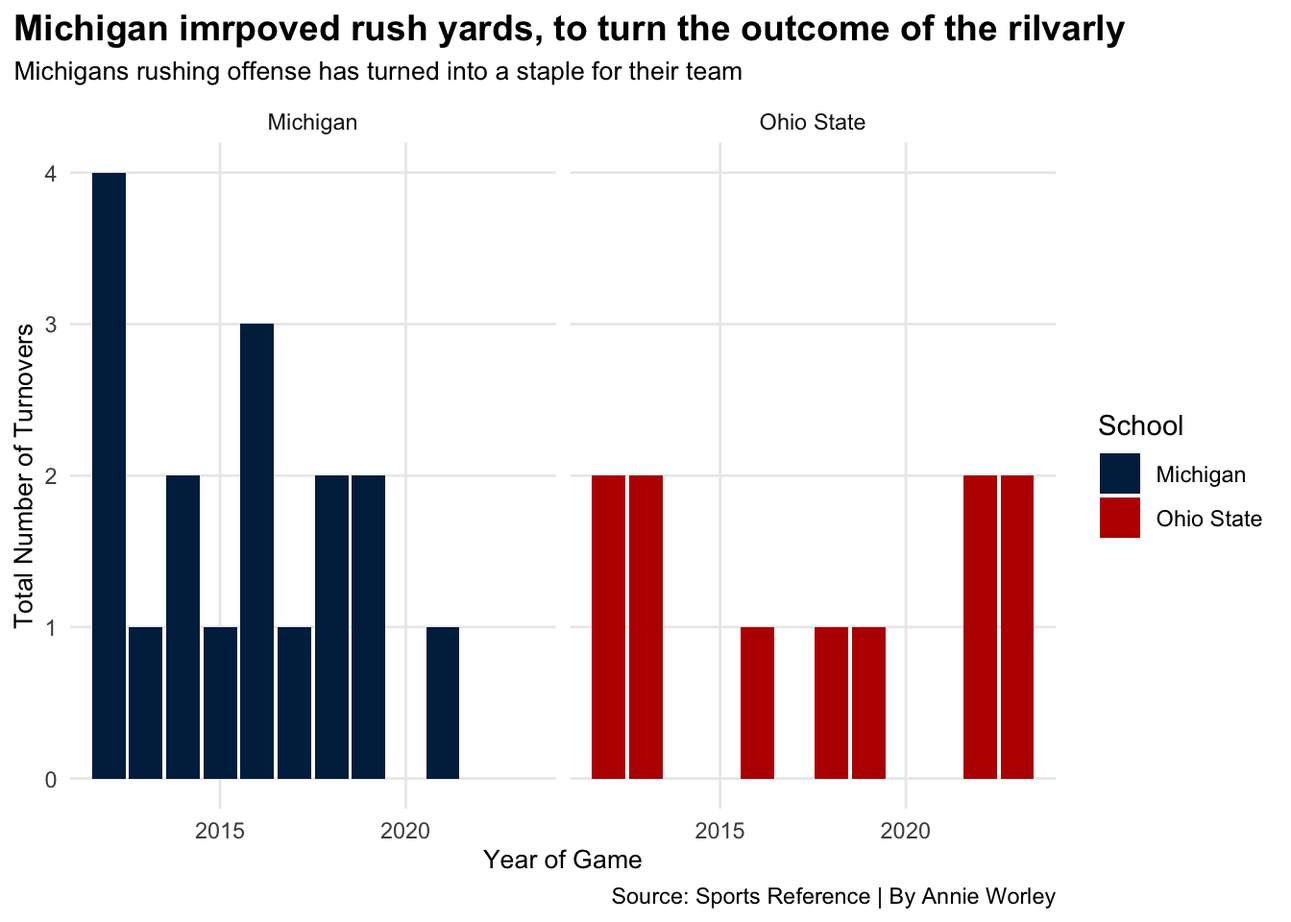
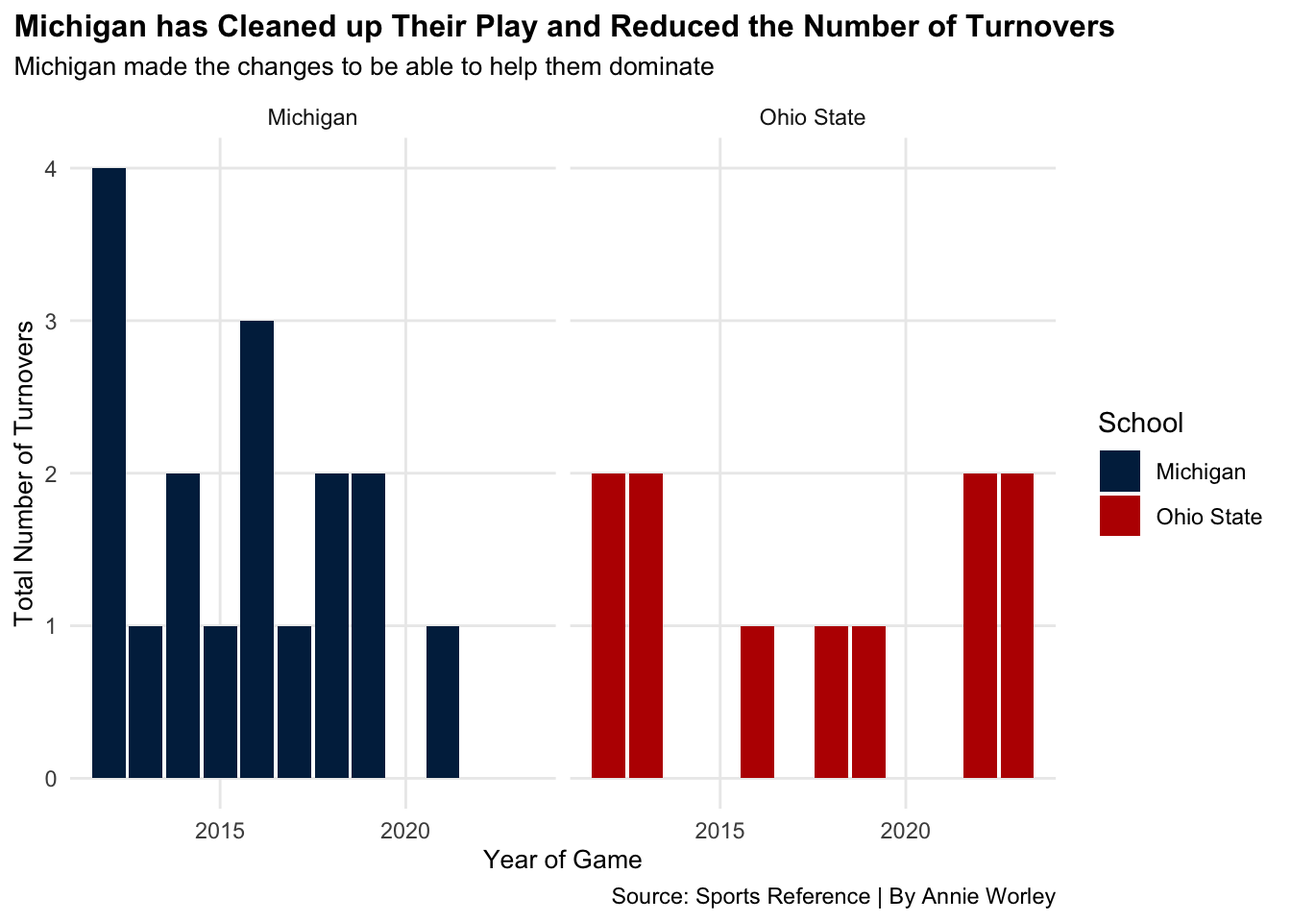
edits

diff --git a/posts/college-football/index.html b/posts/college-football/index.html
@@ -217,7 +217,8 @@ pre > code.sourceCode > span > a:first-child::before { text-decoration: underlin
 <span id="cb3-3"><a href="#cb3-3" aria-hidden="true" tabindex="-1"></a><span class="fu">library</span>(ggtext)</span></code><button title="Copy to Clipboard" class="code-copy-button"><i class="bi"></i></button></pre></div>
 </details>
 </div>
-<p>How has Michigan’s football team beaten Ohio State the last three years? In previous years from 2012 - 2019 Michigan lost to Ohio State eight consecutive years. In 2019 the two teams didn’t play each other due to Covid-19 which was the first time they didn’t face each other since 1918.</p>
+<p>How has Michigan’s football team beaten Ohio State the last three years? In previous years from 2012 - 2019, Michigan lost to Ohio State eight consecutive years.</p>
+<p>In 2019 the two teams didn’t play each other due to Covid-19 which was the first time they didn’t face each other since 1918.</p>
 <div class="cell">
 <details class="code-fold">
 <summary>Code</summary>
@@ -242,15 +243,19 @@ Specify the column types or set `show_col_types = FALSE` to quiet this message.
 • `Avg` -&gt; `Avg...14`
 • `TD` -&gt; `TD...15`</code></pre>
 </div>
+<details class="code-fold">
+<summary>Code</summary>
+<div class="sourceCode cell-code" id="cb6"><pre class="sourceCode r code-with-copy"><code class="sourceCode r"><span id="cb6-1"><a href="#cb6-1" aria-hidden="true" tabindex="-1"></a>show_col_types <span class="ot">=</span> <span class="cn">FALSE</span></span></code><button title="Copy to Clipboard" class="code-copy-button"><i class="bi"></i></button></pre></div>
+</details>
 </div>
 <div class="cell">
 <details class="code-fold">
 <summary>Code</summary>
-<div class="sourceCode cell-code" id="cb6"><pre class="sourceCode r code-with-copy"><code class="sourceCode r"><span id="cb6-1"><a href="#cb6-1" aria-hidden="true" tabindex="-1"></a>teamrushing <span class="ot">&lt;-</span> rushing <span class="sc">|&gt;</span> </span>
-<span id="cb6-2"><a href="#cb6-2" aria-hidden="true" tabindex="-1"></a>  <span class="fu">group_by</span>(Year, School) <span class="sc">|&gt;</span> </span>
-<span id="cb6-3"><a href="#cb6-3" aria-hidden="true" tabindex="-1"></a><span class="fu">summarise</span>(</span>
-<span id="cb6-4"><a href="#cb6-4" aria-hidden="true" tabindex="-1"></a>    <span class="at">TotalYards =</span> <span class="fu">sum</span>(Yds...<span class="dv">5</span>, <span class="at">na.rm =</span> <span class="cn">TRUE</span>)</span>
-<span id="cb6-5"><a href="#cb6-5" aria-hidden="true" tabindex="-1"></a>    )</span></code><button title="Copy to Clipboard" class="code-copy-button"><i class="bi"></i></button></pre></div>
+<div class="sourceCode cell-code" id="cb7"><pre class="sourceCode r code-with-copy"><code class="sourceCode r"><span id="cb7-1"><a href="#cb7-1" aria-hidden="true" tabindex="-1"></a>teamrushing <span class="ot">&lt;-</span> rushing <span class="sc">|&gt;</span> </span>
+<span id="cb7-2"><a href="#cb7-2" aria-hidden="true" tabindex="-1"></a>  <span class="fu">group_by</span>(Year, School) <span class="sc">|&gt;</span> </span>
+<span id="cb7-3"><a href="#cb7-3" aria-hidden="true" tabindex="-1"></a><span class="fu">summarise</span>(</span>
+<span id="cb7-4"><a href="#cb7-4" aria-hidden="true" tabindex="-1"></a>    <span class="at">TotalYards =</span> <span class="fu">sum</span>(Yds...<span class="dv">5</span>, <span class="at">na.rm =</span> <span class="cn">TRUE</span>)</span>
+<span id="cb7-5"><a href="#cb7-5" aria-hidden="true" tabindex="-1"></a>    )</span></code><button title="Copy to Clipboard" class="code-copy-button"><i class="bi"></i></button></pre></div>
 </details>
 <div class="cell-output cell-output-stderr">
 <pre><code>`summarise()` has grouped output by 'Year'. You can override using the
@@ -262,33 +267,33 @@ Specify the column types or set `show_col_types = FALSE` to quiet this message.
 <div class="cell">
 <details class="code-fold">
 <summary>Code</summary>
-<div class="sourceCode cell-code" id="cb8"><pre class="sourceCode r code-with-copy"><code class="sourceCode r"><span id="cb8-1"><a href="#cb8-1" aria-hidden="true" tabindex="-1"></a>uofm <span class="ot">&lt;-</span> teamrushing <span class="sc">|&gt;</span></span>
-<span id="cb8-2"><a href="#cb8-2" aria-hidden="true" tabindex="-1"></a>  <span class="fu">filter</span>(School <span class="sc">==</span> <span class="st">"Michigan"</span>)</span>
-<span id="cb8-3"><a href="#cb8-3" aria-hidden="true" tabindex="-1"></a>osu <span class="ot">&lt;-</span> teamrushing <span class="sc">|&gt;</span></span>
-<span id="cb8-4"><a href="#cb8-4" aria-hidden="true" tabindex="-1"></a>  <span class="fu">filter</span>(School <span class="sc">==</span> <span class="st">"Ohio State"</span>)</span></code><button title="Copy to Clipboard" class="code-copy-button"><i class="bi"></i></button></pre></div>
+<div class="sourceCode cell-code" id="cb9"><pre class="sourceCode r code-with-copy"><code class="sourceCode r"><span id="cb9-1"><a href="#cb9-1" aria-hidden="true" tabindex="-1"></a>uofm <span class="ot">&lt;-</span> teamrushing <span class="sc">|&gt;</span></span>
+<span id="cb9-2"><a href="#cb9-2" aria-hidden="true" tabindex="-1"></a>  <span class="fu">filter</span>(School <span class="sc">==</span> <span class="st">"Michigan"</span>)</span>
+<span id="cb9-3"><a href="#cb9-3" aria-hidden="true" tabindex="-1"></a>osu <span class="ot">&lt;-</span> teamrushing <span class="sc">|&gt;</span></span>
+<span id="cb9-4"><a href="#cb9-4" aria-hidden="true" tabindex="-1"></a>  <span class="fu">filter</span>(School <span class="sc">==</span> <span class="st">"Ohio State"</span>)</span></code><button title="Copy to Clipboard" class="code-copy-button"><i class="bi"></i></button></pre></div>
 </details>
 </div>
 <div class="cell">
 <details class="code-fold">
 <summary>Code</summary>
-<div class="sourceCode cell-code" id="cb9"><pre class="sourceCode r code-with-copy"><code class="sourceCode r"><span id="cb9-1"><a href="#cb9-1" aria-hidden="true" tabindex="-1"></a><span class="fu">ggplot</span>() <span class="sc">+</span> </span>
-<span id="cb9-2"><a href="#cb9-2" aria-hidden="true" tabindex="-1"></a>  <span class="fu">geom_line</span>(<span class="at">data=</span>uofm, <span class="fu">aes</span>(<span class="at">x=</span>Year, <span class="at">y=</span>TotalYards), <span class="at">color=</span><span class="st">"#00274C"</span>) <span class="sc">+</span> </span>
-<span id="cb9-3"><a href="#cb9-3" aria-hidden="true" tabindex="-1"></a>  <span class="fu">geom_line</span>(<span class="at">data=</span>osu, <span class="fu">aes</span>(<span class="at">x=</span>Year, <span class="at">y=</span>TotalYards), <span class="at">color=</span><span class="st">"#BB0000"</span>) <span class="sc">+</span></span>
-<span id="cb9-4"><a href="#cb9-4" aria-hidden="true" tabindex="-1"></a>  <span class="fu">scale_y_continuous</span>(<span class="at">limits =</span> <span class="fu">c</span>(<span class="dv">0</span>,<span class="dv">400</span>)) <span class="sc">+</span></span>
-<span id="cb9-5"><a href="#cb9-5" aria-hidden="true" tabindex="-1"></a>  <span class="fu">scale_x_continuous</span>(<span class="at">limits =</span> <span class="fu">c</span>(<span class="dv">2012</span>,<span class="dv">2023</span>)) <span class="sc">+</span></span>
-<span id="cb9-6"><a href="#cb9-6" aria-hidden="true" tabindex="-1"></a>  <span class="fu">theme_minimal</span>() <span class="sc">+</span></span>
-<span id="cb9-7"><a href="#cb9-7" aria-hidden="true" tabindex="-1"></a><span class="fu">labs</span>(</span>
-<span id="cb9-8"><a href="#cb9-8" aria-hidden="true" tabindex="-1"></a>    <span class="at">x=</span><span class="st">"Year of Games"</span>, </span>
-<span id="cb9-9"><a href="#cb9-9" aria-hidden="true" tabindex="-1"></a>    <span class="at">y=</span><span class="st">"Total Yards Per Game"</span>, </span>
-<span id="cb9-10"><a href="#cb9-10" aria-hidden="true" tabindex="-1"></a>    <span class="at">title=</span><span class="st">"Michigan improved rush yards, to turn the outcome of the rilvarly"</span>, </span>
-<span id="cb9-11"><a href="#cb9-11" aria-hidden="true" tabindex="-1"></a>    <span class="at">subtitle=</span><span class="st">"Michigans rushing offense has turned into a staple for their team"</span>, </span>
-<span id="cb9-12"><a href="#cb9-12" aria-hidden="true" tabindex="-1"></a>    <span class="at">caption=</span><span class="st">"Source: Sports Reference | By Annie Worley"</span>) <span class="sc">+</span></span>
-<span id="cb9-13"><a href="#cb9-13" aria-hidden="true" tabindex="-1"></a>  <span class="fu">theme</span>(</span>
-<span id="cb9-14"><a href="#cb9-14" aria-hidden="true" tabindex="-1"></a>    <span class="at">plot.title =</span> <span class="fu">element_text</span>(<span class="at">size =</span> <span class="dv">14</span>, <span class="at">face =</span> <span class="st">"bold"</span>), </span>
-<span id="cb9-15"><a href="#cb9-15" aria-hidden="true" tabindex="-1"></a>    <span class="at">axis.title =</span> <span class="fu">element_text</span>(<span class="at">size =</span> <span class="dv">10</span>), </span>
-<span id="cb9-16"><a href="#cb9-16" aria-hidden="true" tabindex="-1"></a>    <span class="at">plot.subtitle =</span> <span class="fu">element_text</span>(<span class="at">size=</span><span class="dv">10</span>), </span>
-<span id="cb9-17"><a href="#cb9-17" aria-hidden="true" tabindex="-1"></a>    <span class="at">panel.grid.minor =</span> <span class="fu">element_blank</span>(),</span>
-<span id="cb9-18"><a href="#cb9-18" aria-hidden="true" tabindex="-1"></a>    <span class="at">plot.title.position =</span> <span class="st">"plot"</span> )</span></code><button title="Copy to Clipboard" class="code-copy-button"><i class="bi"></i></button></pre></div>
+<div class="sourceCode cell-code" id="cb10"><pre class="sourceCode r code-with-copy"><code class="sourceCode r"><span id="cb10-1"><a href="#cb10-1" aria-hidden="true" tabindex="-1"></a><span class="fu">ggplot</span>() <span class="sc">+</span> </span>
+<span id="cb10-2"><a href="#cb10-2" aria-hidden="true" tabindex="-1"></a>  <span class="fu">geom_line</span>(<span class="at">data=</span>uofm, <span class="fu">aes</span>(<span class="at">x=</span>Year, <span class="at">y=</span>TotalYards), <span class="at">color=</span><span class="st">"#00274C"</span>) <span class="sc">+</span> </span>
+<span id="cb10-3"><a href="#cb10-3" aria-hidden="true" tabindex="-1"></a>  <span class="fu">geom_line</span>(<span class="at">data=</span>osu, <span class="fu">aes</span>(<span class="at">x=</span>Year, <span class="at">y=</span>TotalYards), <span class="at">color=</span><span class="st">"#BB0000"</span>) <span class="sc">+</span></span>
+<span id="cb10-4"><a href="#cb10-4" aria-hidden="true" tabindex="-1"></a>  <span class="fu">scale_y_continuous</span>(<span class="at">limits =</span> <span class="fu">c</span>(<span class="dv">0</span>,<span class="dv">400</span>)) <span class="sc">+</span></span>
+<span id="cb10-5"><a href="#cb10-5" aria-hidden="true" tabindex="-1"></a>  <span class="fu">scale_x_continuous</span>(<span class="at">limits =</span> <span class="fu">c</span>(<span class="dv">2012</span>,<span class="dv">2023</span>)) <span class="sc">+</span></span>
+<span id="cb10-6"><a href="#cb10-6" aria-hidden="true" tabindex="-1"></a>  <span class="fu">theme_minimal</span>() <span class="sc">+</span></span>
+<span id="cb10-7"><a href="#cb10-7" aria-hidden="true" tabindex="-1"></a><span class="fu">labs</span>(</span>
+<span id="cb10-8"><a href="#cb10-8" aria-hidden="true" tabindex="-1"></a>    <span class="at">x=</span><span class="st">"Year of Games"</span>, </span>
+<span id="cb10-9"><a href="#cb10-9" aria-hidden="true" tabindex="-1"></a>    <span class="at">y=</span><span class="st">"Total Yards Per Game"</span>, </span>
+<span id="cb10-10"><a href="#cb10-10" aria-hidden="true" tabindex="-1"></a>    <span class="at">title=</span><span class="st">"Michigan Improved Rush Rards, to Turn the Outcome of the Rilvarly"</span>, </span>
+<span id="cb10-11"><a href="#cb10-11" aria-hidden="true" tabindex="-1"></a>    <span class="at">subtitle=</span><span class="st">"Michigans rushing offense has turned into a staple for their team"</span>, </span>
+<span id="cb10-12"><a href="#cb10-12" aria-hidden="true" tabindex="-1"></a>    <span class="at">caption=</span><span class="st">"Source: Sports Reference | By Annie Worley"</span>) <span class="sc">+</span></span>
+<span id="cb10-13"><a href="#cb10-13" aria-hidden="true" tabindex="-1"></a>  <span class="fu">theme</span>(</span>
+<span id="cb10-14"><a href="#cb10-14" aria-hidden="true" tabindex="-1"></a>    <span class="at">plot.title =</span> <span class="fu">element_text</span>(<span class="at">size =</span> <span class="dv">14</span>, <span class="at">face =</span> <span class="st">"bold"</span>), </span>
+<span id="cb10-15"><a href="#cb10-15" aria-hidden="true" tabindex="-1"></a>    <span class="at">axis.title =</span> <span class="fu">element_text</span>(<span class="at">size =</span> <span class="dv">10</span>), </span>
+<span id="cb10-16"><a href="#cb10-16" aria-hidden="true" tabindex="-1"></a>    <span class="at">plot.subtitle =</span> <span class="fu">element_text</span>(<span class="at">size=</span><span class="dv">10</span>), </span>
+<span id="cb10-17"><a href="#cb10-17" aria-hidden="true" tabindex="-1"></a>    <span class="at">panel.grid.minor =</span> <span class="fu">element_blank</span>(),</span>
+<span id="cb10-18"><a href="#cb10-18" aria-hidden="true" tabindex="-1"></a>    <span class="at">plot.title.position =</span> <span class="st">"plot"</span> )</span></code><button title="Copy to Clipboard" class="code-copy-button"><i class="bi"></i></button></pre></div>
 </details>
 <div class="cell-output-display">
 <div>
@@ -301,8 +306,8 @@ Specify the column types or set `show_col_types = FALSE` to quiet this message.
 <div class="cell">
 <details class="code-fold">
 <summary>Code</summary>
-<div class="sourceCode cell-code" id="cb10"><pre class="sourceCode r code-with-copy"><code class="sourceCode r"><span id="cb10-1"><a href="#cb10-1" aria-hidden="true" tabindex="-1"></a><span class="co">#1 message: FALSE </span></span>
-<span id="cb10-2"><a href="#cb10-2" aria-hidden="true" tabindex="-1"></a><span class="fu">ggsave</span>(<span class="st">"rivalryimage.jpeg"</span>)  </span></code><button title="Copy to Clipboard" class="code-copy-button"><i class="bi"></i></button></pre></div>
+<div class="sourceCode cell-code" id="cb11"><pre class="sourceCode r code-with-copy"><code class="sourceCode r"><span id="cb11-1"><a href="#cb11-1" aria-hidden="true" tabindex="-1"></a><span class="co">#1 message: FALSE </span></span>
+<span id="cb11-2"><a href="#cb11-2" aria-hidden="true" tabindex="-1"></a><span class="fu">ggsave</span>(<span class="st">"rivalryimage.jpeg"</span>)  </span></code><button title="Copy to Clipboard" class="code-copy-button"><i class="bi"></i></button></pre></div>
 </details>
 <div class="cell-output cell-output-stderr">
 <pre><code>Saving 7 x 5 in image</code></pre>
@@ -311,7 +316,7 @@ Specify the column types or set `show_col_types = FALSE` to quiet this message.
 <div class="cell">
 <details class="code-fold">
 <summary>Code</summary>
-<div class="sourceCode cell-code" id="cb12"><pre class="sourceCode r code-with-copy"><code class="sourceCode r"><span id="cb12-1"><a href="#cb12-1" aria-hidden="true" tabindex="-1"></a>penalties <span class="ot">&lt;-</span> <span class="fu">read_csv</span>(<span class="st">"PenaltiesYards1.csv"</span>) </span></code><button title="Copy to Clipboard" class="code-copy-button"><i class="bi"></i></button></pre></div>
+<div class="sourceCode cell-code" id="cb13"><pre class="sourceCode r code-with-copy"><code class="sourceCode r"><span id="cb13-1"><a href="#cb13-1" aria-hidden="true" tabindex="-1"></a>penalties <span class="ot">&lt;-</span> <span class="fu">read_csv</span>(<span class="st">"PenaltiesYards1.csv"</span>) </span></code><button title="Copy to Clipboard" class="code-copy-button"><i class="bi"></i></button></pre></div>
 </details>
 <div class="cell-output cell-output-stderr">
 <pre><code>Rows: 22 Columns: 4
@@ -323,28 +328,32 @@ dbl (3): Year, Total Penalties, Yards Lost
 ℹ Use `spec()` to retrieve the full column specification for this data.
 ℹ Specify the column types or set `show_col_types = FALSE` to quiet this message.</code></pre>
 </div>
+<details class="code-fold">
+<summary>Code</summary>
+<div class="sourceCode cell-code" id="cb15"><pre class="sourceCode r code-with-copy"><code class="sourceCode r"><span id="cb15-1"><a href="#cb15-1" aria-hidden="true" tabindex="-1"></a><span class="co">#| messasge: FALSE</span></span></code><button title="Copy to Clipboard" class="code-copy-button"><i class="bi"></i></button></pre></div>
+</details>
 </div>
 <p>Unlike the affects that rush yards has on the game. Penalties by each team don’t necessarily affect the results. Although, in 2021 and 2022 there was a big difference in the amount of penalties and could’ve affected the outcome.</p>
 <p>Question: Has the amount of penalties each team got, affected the outcome of the game?</p>
 <div class="cell">
 <details class="code-fold">
 <summary>Code</summary>
-<div class="sourceCode cell-code" id="cb14"><pre class="sourceCode r code-with-copy"><code class="sourceCode r"><span id="cb14-1"><a href="#cb14-1" aria-hidden="true" tabindex="-1"></a><span class="fu">ggplot</span>() <span class="sc">+</span> </span>
-<span id="cb14-2"><a href="#cb14-2" aria-hidden="true" tabindex="-1"></a>  <span class="fu">geom_bar</span>(<span class="at">data=</span>penalties, <span class="fu">aes</span>(<span class="at">x=</span>Year, <span class="at">weight=</span><span class="st">`</span><span class="at">Total Penalties</span><span class="st">`</span>, <span class="at">fill=</span>School)) <span class="sc">+</span> </span>
-<span id="cb14-3"><a href="#cb14-3" aria-hidden="true" tabindex="-1"></a>  <span class="fu">coord_flip</span>() <span class="sc">+</span></span>
-<span id="cb14-4"><a href="#cb14-4" aria-hidden="true" tabindex="-1"></a><span class="fu">scale_fill_manual</span>(<span class="at">values =</span> <span class="fu">c</span>(<span class="st">"Michigan"</span> <span class="ot">=</span> <span class="st">"#00274C"</span>, <span class="st">"Ohio State"</span> <span class="ot">=</span> <span class="st">"#BB0000"</span>)) <span class="sc">+</span> <span class="fu">theme_minimal</span>() <span class="sc">+</span></span>
-<span id="cb14-5"><a href="#cb14-5" aria-hidden="true" tabindex="-1"></a>  <span class="fu">labs</span>(</span>
-<span id="cb14-6"><a href="#cb14-6" aria-hidden="true" tabindex="-1"></a>    <span class="at">x=</span><span class="st">"Year of Game"</span>, </span>
-<span id="cb14-7"><a href="#cb14-7" aria-hidden="true" tabindex="-1"></a>    <span class="at">y=</span><span class="st">"Total Number of Penalties Per Game"</span>, </span>
-<span id="cb14-8"><a href="#cb14-8" aria-hidden="true" tabindex="-1"></a>    <span class="at">title=</span><span class="st">"Michigan imrpoved rush yards, to turn the outcome of the rilvarly"</span>, </span>
-<span id="cb14-9"><a href="#cb14-9" aria-hidden="true" tabindex="-1"></a>    <span class="at">subtitle=</span><span class="st">"Michigans rushing offense has turned into a staple for their team"</span>, </span>
-<span id="cb14-10"><a href="#cb14-10" aria-hidden="true" tabindex="-1"></a>    <span class="at">caption=</span><span class="st">"Source: Sports Reference | By Annie Worley"</span>) <span class="sc">+</span></span>
-<span id="cb14-11"><a href="#cb14-11" aria-hidden="true" tabindex="-1"></a>  <span class="fu">theme</span>(</span>
-<span id="cb14-12"><a href="#cb14-12" aria-hidden="true" tabindex="-1"></a>    <span class="at">plot.title =</span> <span class="fu">element_text</span>(<span class="at">size =</span> <span class="dv">14</span>, <span class="at">face =</span> <span class="st">"bold"</span>), </span>
-<span id="cb14-13"><a href="#cb14-13" aria-hidden="true" tabindex="-1"></a>    <span class="at">axis.title =</span> <span class="fu">element_text</span>(<span class="at">size =</span> <span class="dv">10</span>), </span>
-<span id="cb14-14"><a href="#cb14-14" aria-hidden="true" tabindex="-1"></a>    <span class="at">plot.subtitle =</span> <span class="fu">element_text</span>(<span class="at">size=</span><span class="dv">10</span>), </span>
-<span id="cb14-15"><a href="#cb14-15" aria-hidden="true" tabindex="-1"></a>    <span class="at">panel.grid.minor =</span> <span class="fu">element_blank</span>(),</span>
-<span id="cb14-16"><a href="#cb14-16" aria-hidden="true" tabindex="-1"></a>    <span class="at">plot.title.position =</span> <span class="st">"plot"</span> )</span></code><button title="Copy to Clipboard" class="code-copy-button"><i class="bi"></i></button></pre></div>
+<div class="sourceCode cell-code" id="cb16"><pre class="sourceCode r code-with-copy"><code class="sourceCode r"><span id="cb16-1"><a href="#cb16-1" aria-hidden="true" tabindex="-1"></a><span class="fu">ggplot</span>() <span class="sc">+</span> </span>
+<span id="cb16-2"><a href="#cb16-2" aria-hidden="true" tabindex="-1"></a>  <span class="fu">geom_bar</span>(<span class="at">data=</span>penalties, <span class="fu">aes</span>(<span class="at">x=</span>Year, <span class="at">weight=</span><span class="st">`</span><span class="at">Total Penalties</span><span class="st">`</span>, <span class="at">fill=</span>School)) <span class="sc">+</span> </span>
+<span id="cb16-3"><a href="#cb16-3" aria-hidden="true" tabindex="-1"></a>  <span class="fu">coord_flip</span>() <span class="sc">+</span></span>
+<span id="cb16-4"><a href="#cb16-4" aria-hidden="true" tabindex="-1"></a><span class="fu">scale_fill_manual</span>(<span class="at">values =</span> <span class="fu">c</span>(<span class="st">"Michigan"</span> <span class="ot">=</span> <span class="st">"#00274C"</span>, <span class="st">"Ohio State"</span> <span class="ot">=</span> <span class="st">"#BB0000"</span>)) <span class="sc">+</span> <span class="fu">theme_minimal</span>() <span class="sc">+</span></span>
+<span id="cb16-5"><a href="#cb16-5" aria-hidden="true" tabindex="-1"></a>  <span class="fu">labs</span>(</span>
+<span id="cb16-6"><a href="#cb16-6" aria-hidden="true" tabindex="-1"></a>    <span class="at">x=</span><span class="st">"Year of Game"</span>, </span>
+<span id="cb16-7"><a href="#cb16-7" aria-hidden="true" tabindex="-1"></a>    <span class="at">y=</span><span class="st">"Total Number of Penalties Per Game"</span>, </span>
+<span id="cb16-8"><a href="#cb16-8" aria-hidden="true" tabindex="-1"></a>    <span class="at">title=</span><span class="st">"Penalties Contribute to the Help for the Last Three Wins for Michigan"</span>, </span>
+<span id="cb16-9"><a href="#cb16-9" aria-hidden="true" tabindex="-1"></a>    <span class="at">subtitle=</span><span class="st">"In a lot of the games the number of penlties have not been a significant factor"</span>, </span>
+<span id="cb16-10"><a href="#cb16-10" aria-hidden="true" tabindex="-1"></a>    <span class="at">caption=</span><span class="st">"Source: Sports Reference | By Annie Worley"</span>) <span class="sc">+</span></span>
+<span id="cb16-11"><a href="#cb16-11" aria-hidden="true" tabindex="-1"></a>  <span class="fu">theme</span>(</span>
+<span id="cb16-12"><a href="#cb16-12" aria-hidden="true" tabindex="-1"></a>    <span class="at">plot.title =</span> <span class="fu">element_text</span>(<span class="at">size =</span> <span class="dv">13</span>, <span class="at">face =</span> <span class="st">"bold"</span>), </span>
+<span id="cb16-13"><a href="#cb16-13" aria-hidden="true" tabindex="-1"></a>    <span class="at">axis.title =</span> <span class="fu">element_text</span>(<span class="at">size =</span> <span class="dv">10</span>), </span>
+<span id="cb16-14"><a href="#cb16-14" aria-hidden="true" tabindex="-1"></a>    <span class="at">plot.subtitle =</span> <span class="fu">element_text</span>(<span class="at">size=</span><span class="dv">10</span>), </span>
+<span id="cb16-15"><a href="#cb16-15" aria-hidden="true" tabindex="-1"></a>    <span class="at">panel.grid.minor =</span> <span class="fu">element_blank</span>(),</span>
+<span id="cb16-16"><a href="#cb16-16" aria-hidden="true" tabindex="-1"></a>    <span class="at">plot.title.position =</span> <span class="st">"plot"</span> )</span></code><button title="Copy to Clipboard" class="code-copy-button"><i class="bi"></i></button></pre></div>
 </details>
 <div class="cell-output-display">
 <div>
@@ -359,7 +368,7 @@ dbl (3): Year, Total Penalties, Yards Lost
 <div class="cell">
 <details class="code-fold">
 <summary>Code</summary>
-<div class="sourceCode cell-code" id="cb15"><pre class="sourceCode r code-with-copy"><code class="sourceCode r"><span id="cb15-1"><a href="#cb15-1" aria-hidden="true" tabindex="-1"></a>turnovers <span class="ot">&lt;-</span> <span class="fu">read_csv</span>(<span class="st">"turnovers.csv"</span>) </span></code><button title="Copy to Clipboard" class="code-copy-button"><i class="bi"></i></button></pre></div>
+<div class="sourceCode cell-code" id="cb17"><pre class="sourceCode r code-with-copy"><code class="sourceCode r"><span id="cb17-1"><a href="#cb17-1" aria-hidden="true" tabindex="-1"></a>turnovers <span class="ot">&lt;-</span> <span class="fu">read_csv</span>(<span class="st">"turnovers.csv"</span>) </span></code><button title="Copy to Clipboard" class="code-copy-button"><i class="bi"></i></button></pre></div>
 </details>
 <div class="cell-output cell-output-stderr">
 <pre><code>Rows: 22 Columns: 3
@@ -371,27 +380,31 @@ dbl (2): Year, Turnovers
 ℹ Use `spec()` to retrieve the full column specification for this data.
 ℹ Specify the column types or set `show_col_types = FALSE` to quiet this message.</code></pre>
 </div>
+<details class="code-fold">
+<summary>Code</summary>
+<div class="sourceCode cell-code" id="cb19"><pre class="sourceCode r code-with-copy"><code class="sourceCode r"><span id="cb19-1"><a href="#cb19-1" aria-hidden="true" tabindex="-1"></a><span class="co">#| messasge: FALSE</span></span></code><button title="Copy to Clipboard" class="code-copy-button"><i class="bi"></i></button></pre></div>
+</details>
 </div>
 <div class="cell">
 <details class="code-fold">
 <summary>Code</summary>
-<div class="sourceCode cell-code" id="cb17"><pre class="sourceCode r code-with-copy"><code class="sourceCode r"><span id="cb17-1"><a href="#cb17-1" aria-hidden="true" tabindex="-1"></a><span class="fu">ggplot</span>() <span class="sc">+</span> </span>
-<span id="cb17-2"><a href="#cb17-2" aria-hidden="true" tabindex="-1"></a>  <span class="fu">geom_bar</span>(<span class="at">data=</span>turnovers, <span class="fu">aes</span>(<span class="at">x=</span>Year, <span class="at">weight=</span>Turnovers, <span class="at">fill=</span>School)) <span class="sc">+</span></span>
-<span id="cb17-3"><a href="#cb17-3" aria-hidden="true" tabindex="-1"></a>  <span class="fu">geom_bar</span>(<span class="at">stat =</span> <span class="st">"identity"</span>, <span class="at">position =</span> <span class="st">"dodge"</span>) <span class="sc">+</span></span>
-<span id="cb17-4"><a href="#cb17-4" aria-hidden="true" tabindex="-1"></a>  <span class="fu">facet_wrap</span>(<span class="sc">~</span>School) <span class="sc">+</span></span>
-<span id="cb17-5"><a href="#cb17-5" aria-hidden="true" tabindex="-1"></a><span class="fu">scale_fill_manual</span>(<span class="at">values =</span> <span class="fu">c</span>(<span class="st">"Michigan"</span> <span class="ot">=</span> <span class="st">"#00274C"</span>, <span class="st">"Ohio State"</span> <span class="ot">=</span> <span class="st">"#BB0000"</span>)) <span class="sc">+</span> <span class="fu">theme_minimal</span>() <span class="sc">+</span></span>
-<span id="cb17-6"><a href="#cb17-6" aria-hidden="true" tabindex="-1"></a><span class="fu">labs</span>(</span>
-<span id="cb17-7"><a href="#cb17-7" aria-hidden="true" tabindex="-1"></a>    <span class="at">x=</span><span class="st">"Year of Game"</span>, </span>
-<span id="cb17-8"><a href="#cb17-8" aria-hidden="true" tabindex="-1"></a>    <span class="at">y=</span><span class="st">"Total Number of Turnovers"</span>, </span>
-<span id="cb17-9"><a href="#cb17-9" aria-hidden="true" tabindex="-1"></a>    <span class="at">title=</span><span class="st">"Michigan imrpoved rush yards, to turn the outcome of the rilvarly"</span>, </span>
-<span id="cb17-10"><a href="#cb17-10" aria-hidden="true" tabindex="-1"></a>    <span class="at">subtitle=</span><span class="st">"Michigans rushing offense has turned into a staple for their team"</span>, </span>
-<span id="cb17-11"><a href="#cb17-11" aria-hidden="true" tabindex="-1"></a>    <span class="at">caption=</span><span class="st">"Source: Sports Reference | By Annie Worley"</span>) <span class="sc">+</span></span>
-<span id="cb17-12"><a href="#cb17-12" aria-hidden="true" tabindex="-1"></a>  <span class="fu">theme</span>(</span>
-<span id="cb17-13"><a href="#cb17-13" aria-hidden="true" tabindex="-1"></a>    <span class="at">plot.title =</span> <span class="fu">element_text</span>(<span class="at">size =</span> <span class="dv">14</span>, <span class="at">face =</span> <span class="st">"bold"</span>), </span>
-<span id="cb17-14"><a href="#cb17-14" aria-hidden="true" tabindex="-1"></a>    <span class="at">axis.title =</span> <span class="fu">element_text</span>(<span class="at">size =</span> <span class="dv">10</span>), </span>
-<span id="cb17-15"><a href="#cb17-15" aria-hidden="true" tabindex="-1"></a>    <span class="at">plot.subtitle =</span> <span class="fu">element_text</span>(<span class="at">size=</span><span class="dv">10</span>), </span>
-<span id="cb17-16"><a href="#cb17-16" aria-hidden="true" tabindex="-1"></a>    <span class="at">panel.grid.minor =</span> <span class="fu">element_blank</span>(),</span>
-<span id="cb17-17"><a href="#cb17-17" aria-hidden="true" tabindex="-1"></a>    <span class="at">plot.title.position =</span> <span class="st">"plot"</span> )</span></code><button title="Copy to Clipboard" class="code-copy-button"><i class="bi"></i></button></pre></div>
+<div class="sourceCode cell-code" id="cb20"><pre class="sourceCode r code-with-copy"><code class="sourceCode r"><span id="cb20-1"><a href="#cb20-1" aria-hidden="true" tabindex="-1"></a><span class="fu">ggplot</span>() <span class="sc">+</span> </span>
+<span id="cb20-2"><a href="#cb20-2" aria-hidden="true" tabindex="-1"></a>  <span class="fu">geom_bar</span>(<span class="at">data=</span>turnovers, <span class="fu">aes</span>(<span class="at">x=</span>Year, <span class="at">weight=</span>Turnovers, <span class="at">fill=</span>School)) <span class="sc">+</span></span>
+<span id="cb20-3"><a href="#cb20-3" aria-hidden="true" tabindex="-1"></a>  <span class="fu">geom_bar</span>(<span class="at">stat =</span> <span class="st">"identity"</span>, <span class="at">position =</span> <span class="st">"dodge"</span>) <span class="sc">+</span></span>
+<span id="cb20-4"><a href="#cb20-4" aria-hidden="true" tabindex="-1"></a>  <span class="fu">facet_wrap</span>(<span class="sc">~</span>School) <span class="sc">+</span></span>
+<span id="cb20-5"><a href="#cb20-5" aria-hidden="true" tabindex="-1"></a><span class="fu">scale_fill_manual</span>(<span class="at">values =</span> <span class="fu">c</span>(<span class="st">"Michigan"</span> <span class="ot">=</span> <span class="st">"#00274C"</span>, <span class="st">"Ohio State"</span> <span class="ot">=</span> <span class="st">"#BB0000"</span>)) <span class="sc">+</span> <span class="fu">theme_minimal</span>() <span class="sc">+</span></span>
+<span id="cb20-6"><a href="#cb20-6" aria-hidden="true" tabindex="-1"></a><span class="fu">labs</span>(</span>
+<span id="cb20-7"><a href="#cb20-7" aria-hidden="true" tabindex="-1"></a>    <span class="at">x=</span><span class="st">"Year of Game"</span>, </span>
+<span id="cb20-8"><a href="#cb20-8" aria-hidden="true" tabindex="-1"></a>    <span class="at">y=</span><span class="st">"Total Number of Turnovers"</span>, </span>
+<span id="cb20-9"><a href="#cb20-9" aria-hidden="true" tabindex="-1"></a>    <span class="at">title=</span><span class="st">"Michigan has Cleaned up Their Play and Reduced the Number of Turnovers"</span>, </span>
+<span id="cb20-10"><a href="#cb20-10" aria-hidden="true" tabindex="-1"></a>    <span class="at">subtitle=</span><span class="st">"Michigan made the changes to be able to help them dominate"</span>, </span>
+<span id="cb20-11"><a href="#cb20-11" aria-hidden="true" tabindex="-1"></a>    <span class="at">caption=</span><span class="st">"Source: Sports Reference | By Annie Worley"</span>) <span class="sc">+</span></span>
+<span id="cb20-12"><a href="#cb20-12" aria-hidden="true" tabindex="-1"></a>  <span class="fu">theme</span>(</span>
+<span id="cb20-13"><a href="#cb20-13" aria-hidden="true" tabindex="-1"></a>    <span class="at">plot.title =</span> <span class="fu">element_text</span>(<span class="at">size =</span> <span class="dv">12</span>, <span class="at">face =</span> <span class="st">"bold"</span>), </span>
+<span id="cb20-14"><a href="#cb20-14" aria-hidden="true" tabindex="-1"></a>    <span class="at">axis.title =</span> <span class="fu">element_text</span>(<span class="at">size =</span> <span class="dv">10</span>), </span>
+<span id="cb20-15"><a href="#cb20-15" aria-hidden="true" tabindex="-1"></a>    <span class="at">plot.subtitle =</span> <span class="fu">element_text</span>(<span class="at">size=</span><span class="dv">10</span>), </span>
+<span id="cb20-16"><a href="#cb20-16" aria-hidden="true" tabindex="-1"></a>    <span class="at">panel.grid.minor =</span> <span class="fu">element_blank</span>(),</span>
+<span id="cb20-17"><a href="#cb20-17" aria-hidden="true" tabindex="-1"></a>    <span class="at">plot.title.position =</span> <span class="st">"plot"</span> )</span></code><button title="Copy to Clipboard" class="code-copy-button"><i class="bi"></i></button></pre></div>
 </details>
 <div class="cell-output-display">
 <div>

diff --git a/index.html b/index.html
@@ -210,7 +210,7 @@ window.Quarto = {
 
 <div class="quarto-listing quarto-listing-container-default" id="listing-listing">
 <div class="list quarto-listing-default">
-<div class="quarto-post image-right" data-index="0" data-categories="Rm9vdGJhbGw=" data-listing-date-sort="1731823200000" data-listing-file-modified-sort="1731872555194" data-listing-date-modified-sort="NaN" data-listing-reading-time-sort="4" data-listing-word-count-sort="692">
+<div class="quarto-post image-right" data-index="0" data-categories="Rm9vdGJhbGw=" data-listing-date-sort="1731823200000" data-listing-file-modified-sort="1731874910397" data-listing-date-modified-sort="NaN" data-listing-reading-time-sort="4" data-listing-word-count-sort="705">
 <div class="thumbnail">
 <p><a href="./posts/college-football/index.html" class="no-external"></a></p><a href="./posts/college-football/index.html" class="no-external">
 <p><img loading="lazy" src="./posts/college-football/rivalryimage.jpeg" class="thumbnail-image"></p>
@@ -229,7 +229,7 @@ Football
 </div>
 </div>
 <div class="listing-description">
-<a href="./posts/college-football/index.html" class="no-external">How has Michigan’s football team beaten Ohio State the last three years? In previous years from 2012 - 2019 Michigan lost to Ohio State eight consecutive years. In 2019 the…</a>
+<a href="./posts/college-football/index.html" class="no-external">How has Michigan’s football team beaten Ohio State the last three years? In previous years from 2012 - 2019, Michigan lost to Ohio State eight consecutive years.</a>
 </div>
 </div>
 <div class="metadata">
